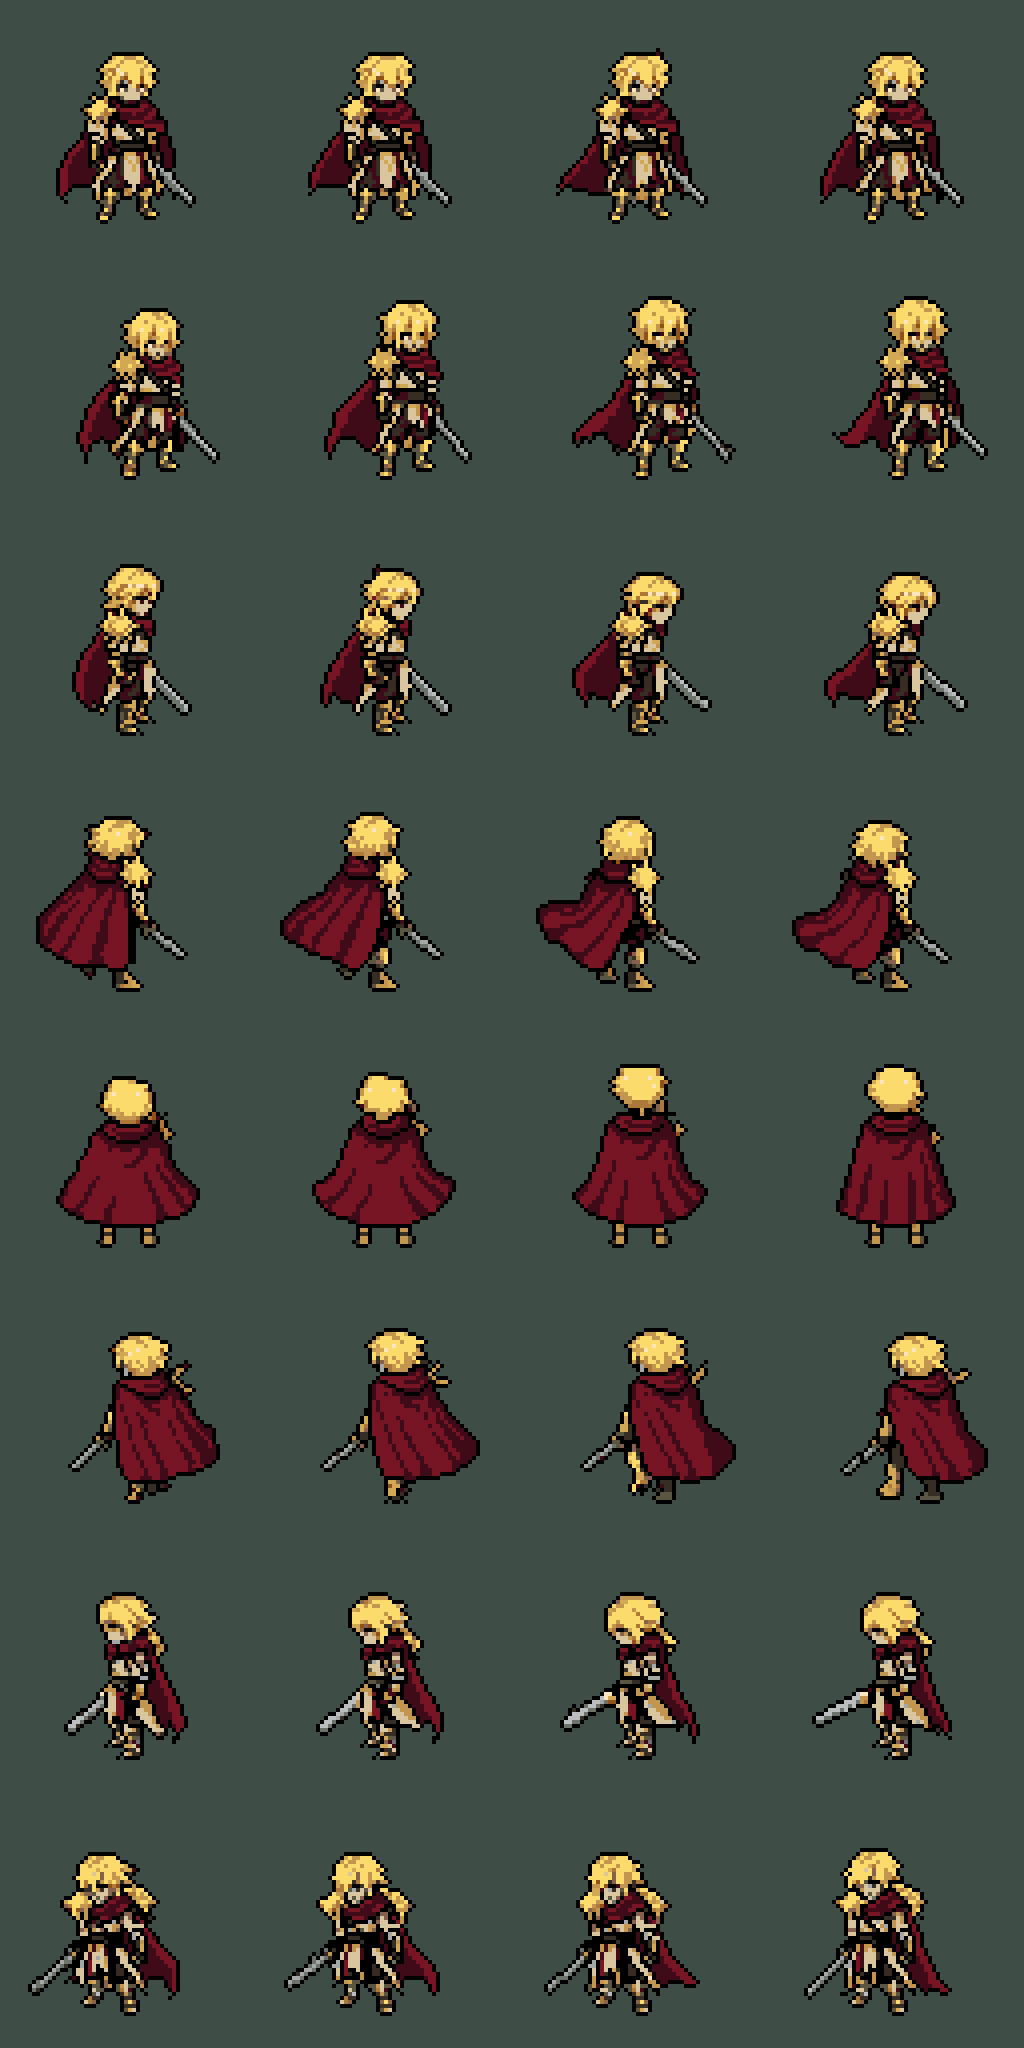
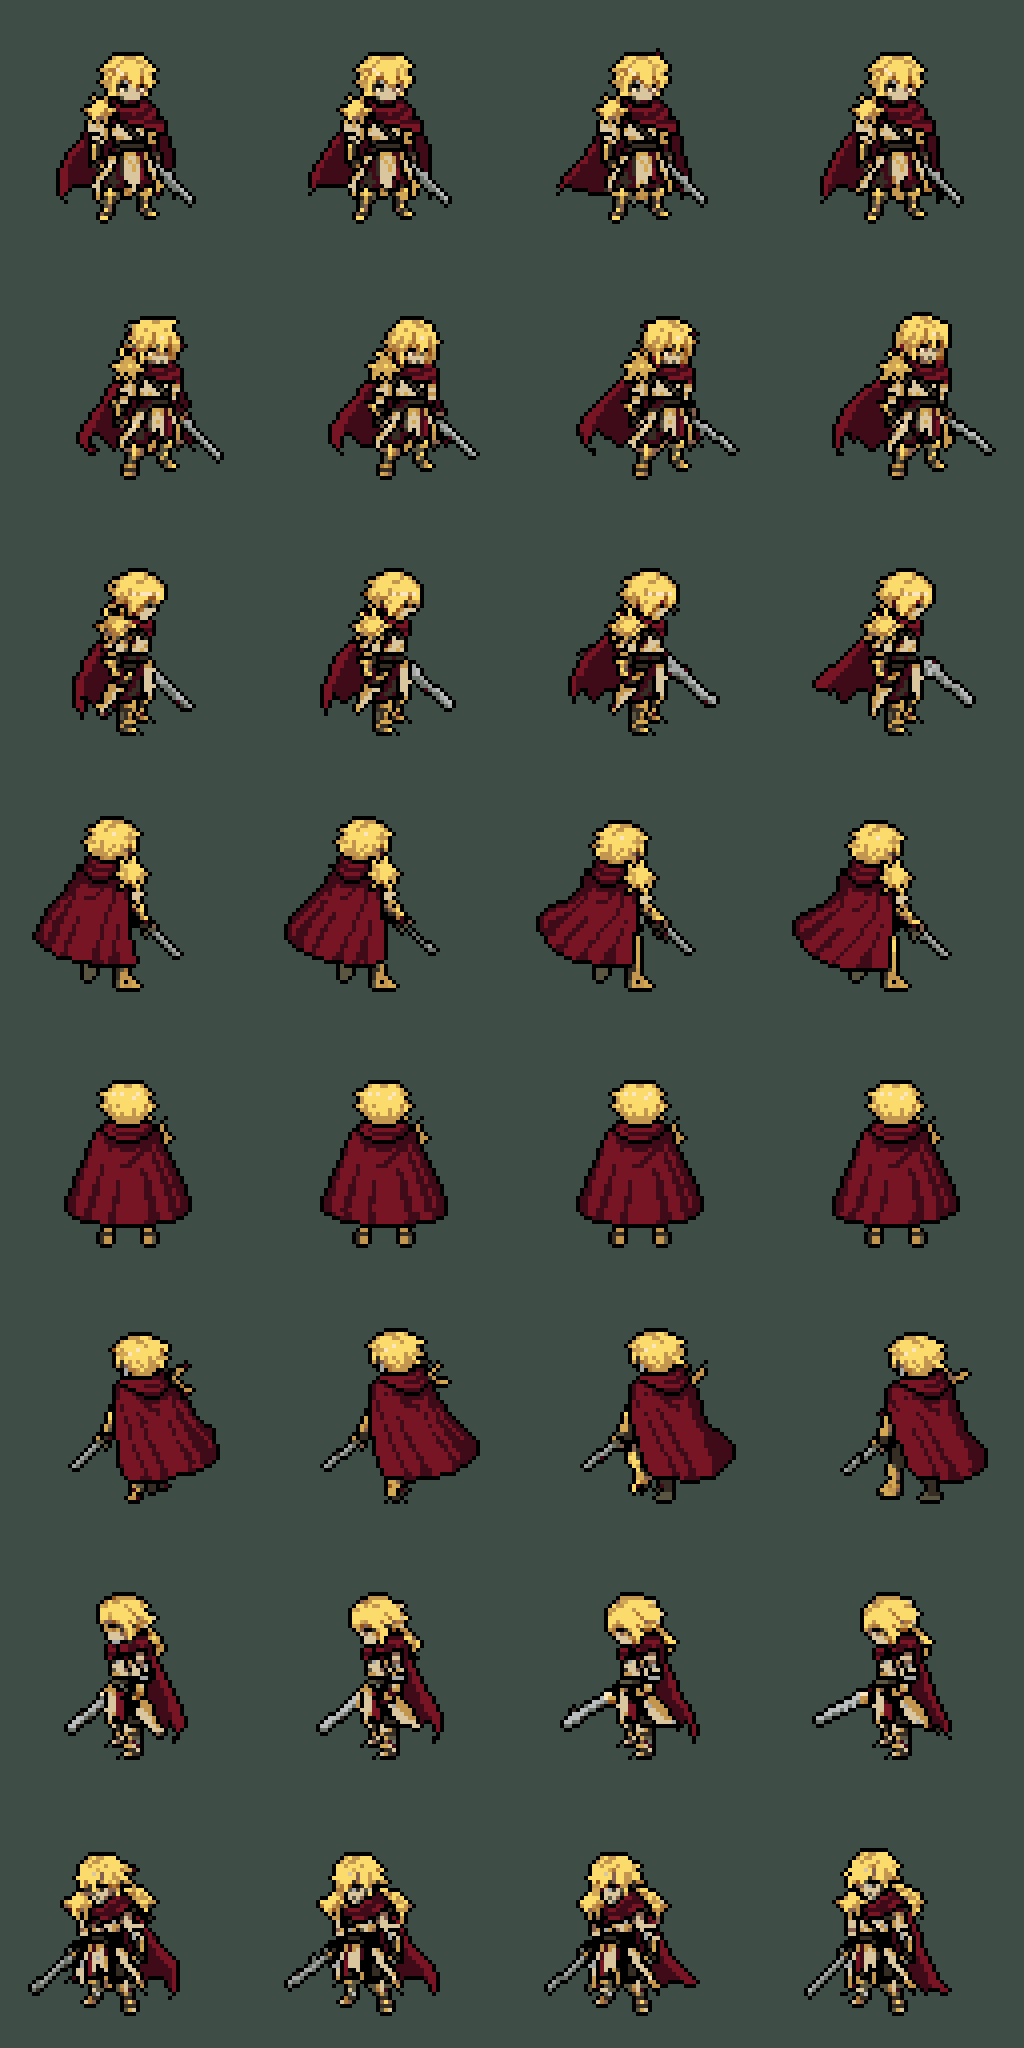
플레이어 idle의 SE·E·NE·N 머리 흔들림 잡기
SE·E·NE idle은 머리를 고정(0~1px)한 PixelLab 결과로 다시 만들었다.
N은 다시 만들어도 매번 2~5px 흔들려서, 회전 자세를 그대로 두고
망토 끝만 1px 흔든다(process.py STILL).

diff --git a/ArtSource/PixelLab/Player/tools/process.py b/ArtSource/PixelLab/Player/tools/process.py
@@ -52,6 +52,20 @@ def planted_feet(img):
 PLANTED = {'hurt': None, 'death': [0]}
 SNAP_MAX = 2   # px; larger drift is a real pose change, not generation noise
 
+# every generated idle/N take bobbed the head 2-5 px (2026-10-28): rotation pose held, only the cape hem sways (user)
+STILL = {'idle': ['north']}
+HEM_SWAY = (0, 1, 0, -1)   # px per frame
+
+
+def hem_sway(img, s, rows=4):
+    """Shift the bottom `rows` cape rows (and the outline row under them) sideways by s px."""
+    c = img[..., :3].astype(int)
+    red = (img[..., 3] > 0) & (c[..., 0] > c[..., 1] + 40) & (c[..., 0] > 60)
+    hem = np.nonzero(red.sum(1) >= 10)[0].max()
+    out = img.copy()
+    out[hem - rows + 2:hem + 2] = np.roll(img[hem - rows + 2:hem + 2], s, 1)
+    return out
+
 
 def place(img, dx, dy):
     out = np.zeros((SIZE, SIZE, 4), np.uint8)
@@ -462,6 +476,8 @@ def cmd_build(only=None):
                 report.append(f'{clip}/{d}: raw missing'); continue
             rot, rdx, rdy, bf = base[d]
             raws = raw_frames(clip, d)
+            if d in STILL.get(clip, ()):
+                raws = [raws[0]] + [hem_sway(raws[0], s) for s in HEM_SWAY]
             dx, dy, how = clip_offset(rot, rdx, rdy, raws)
             raws = raws[drop:]
             if len(raws) != n:

diff --git a/Docs/Handoff/art-player-sprites-clean.md b/Docs/Handoff/art-player-sprites-clean.md
@@ -1,0 +1,7 @@
+# art/player-sprites-clean 인수인계
+
+## 2026-10-28 idle 흔들림 수정
+- 한 일: 주인공 idle SE·E·NE를 PixelLab v3로 다시 생성해 교체(머리 상하 SE 3→0px, E 2→0px, NE 1→1px). 원본 `01_raw/clean/idle/`, 교체 전 원본 `01_raw/trials/idle_before_still/`, 탈락 후보 `01_raw/trials/idle_candidates/`. `process.py build` 검사 통과, `export_unity.py`로 `Assets/Resources/Art/chr_player_idle_{se,e,ne}.png` 갱신. 비교 그림 `ArtSource/PixelLab/Player/03_preview/idle_bob_fix_compare_x4.png`
+- 남은 일: 게임 화면(Unity) 미확인. PixelLab 생성 26회 사용
+- idle N: 생성 후보 6개 모두 머리 2~5px 흔들림 → 사용자 결정으로 기본 포즈 고정 + 망토 끝 4줄만 좌우 1px(0,+1,0,-1). `process.py`의 `STILL`·`hem_sway`, 미리보기 `03_preview/idle_north_still_x6.png`
+- 바꾼 파일: `ArtSource/PixelLab/Player/01_raw/clean/idle/{south-east,east,north-east}/`, `02_final/idle*`, `02_final/issues.txt`, `02_final/process_log.json`, `03_preview/idle_*`, `ISSUES.md`, `tools/process.py`, `chr_player_idle_n.png`, `Assets/Resources/Art/chr_player_idle_{se,e,ne}.png`

diff --git a/ArtSource/PixelLab/Player/ISSUES.md b/ArtSource/PixelLab/Player/ISSUES.md
@@ -4,7 +4,6 @@
 
 | 동작/방향 | 문제 |
 |---|---|
-| idle/SE·N | 머리 높이가 3~4px 커짐(머리카락 부풂) |
 | run·dodge 일부 | 발끝이 지면선보다 1px 아래 |
 | attack/N | 뒷모습이라 내려칠 때 검이 몸에 가려 안 보임 |
 | hurt/NW f2 | 손 옆 2~3px 점, 검날 가려짐, f0~f2 발 1~2px 뜸 (사용자가 직접 수정 예정) |
